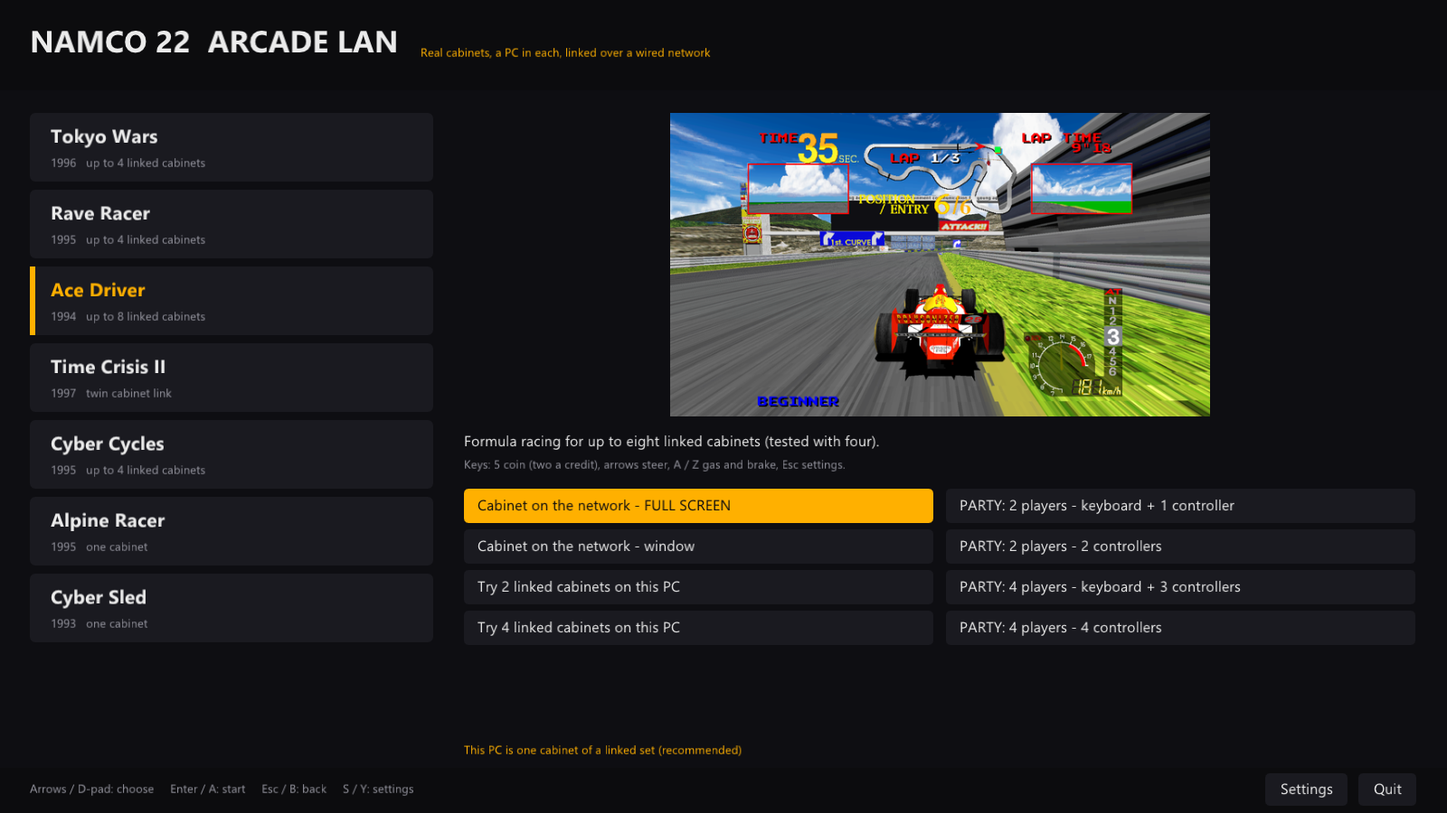
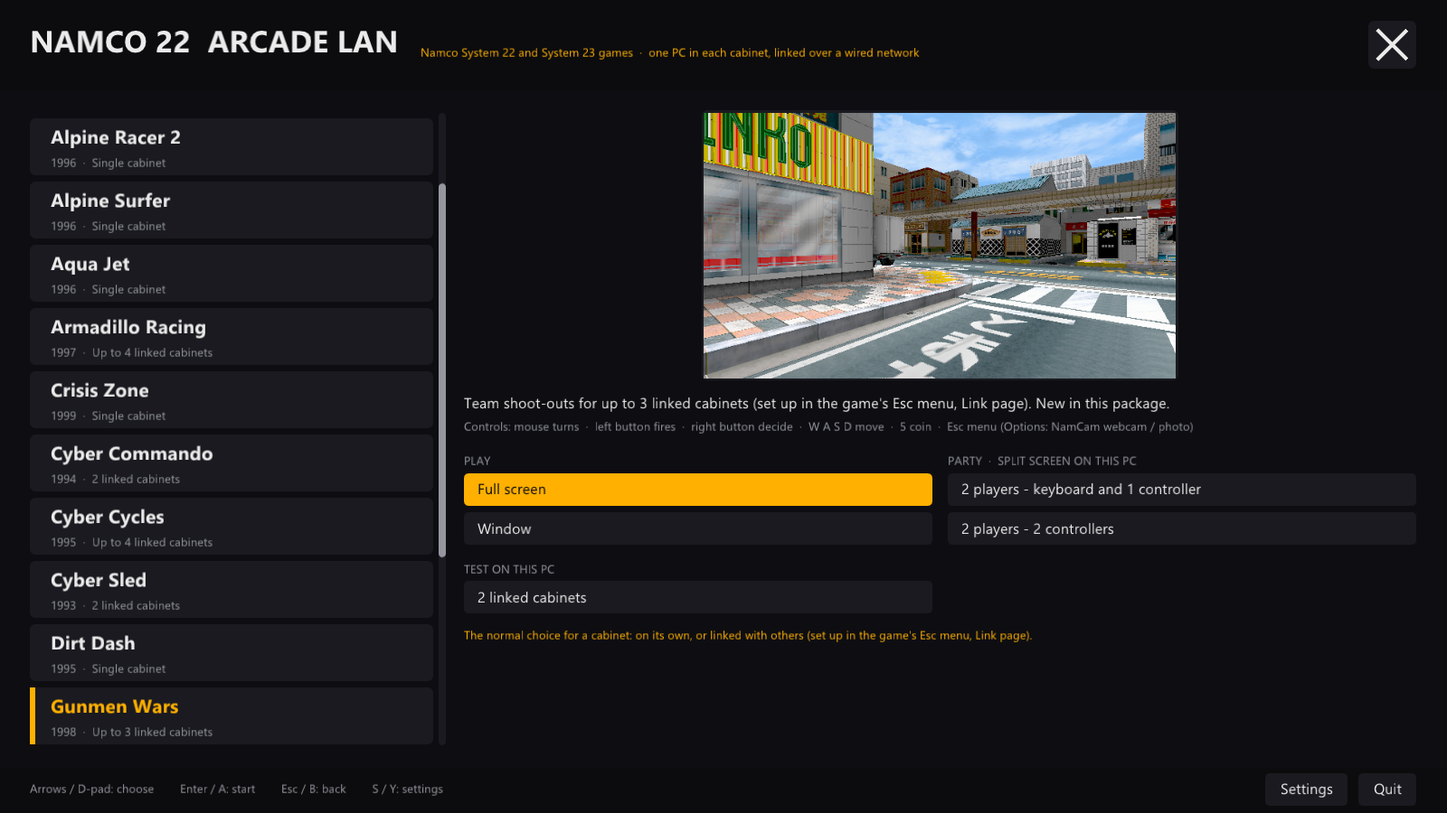
Party mode for the System 23 games (Gunmen Wars, Time Crisis II); launcher tidy; README for 0.9.3
- s23: $S23_PARTY with $S23_WINPOS=n/m -- borderless windows that fill the whole screen (side by side / 2 x 2), kept on
  top, a "PLAYER n: ..." line; $S23_PAD=none (the keyboard and mouse's copy); a party copy with a pad reads only its pad
  (keyboard, mouse and the mouse's aim belong to the other player). The links show the player line in place of "LINKED".
- Launcher: Gunmen Wars grouped as the other games (Full screen / Window, Test: 2 linked cabinets, Party: keyboard + 1
  controller or 2 controllers); Time Crisis II gains the two Party modes; the list's cabinet line from a table (Gunmen
  Wars: up to 3); the header says System 22 and System 23 games.
- TC2 (and Crisis Zone's build file): 256 MB main stack, as Gunmen Wars. TC2 rebuilt: attract pixel-identical to the
  old package exe.
- README: Gunmen Wars, party mode, 0.9.3 history, build and link notes, new launcher picture; package READ ME likewise.

diff --git a/launcher/src/launcher.c b/launcher/src/launcher.c
@@ -144,11 +144,18 @@ static const game_t games[] = {
     { "gunwars", "Gunmen Wars", "1998", "Gunmen Wars", "GunmenWars-ArcadeLAN.exe",
       "Team shoot-outs for up to 3 linked cabinets (set up in the game's Esc menu, Link page). New in this package.",
       "Controls: mouse turns  \xC2\xB7  left button fires  \xC2\xB7  right button decide  \xC2\xB7  W A S D move  \xC2\xB7  5 coin  \xC2\xB7  Esc menu (Options: NamCam webcam / photo)", NULL,
-      3, { { "Full screen", "The normal choice for a cabinet, linked or not (the game's Esc menu, Link page).", true, 1, { { "--window --fullscreen", NULL } } },
-           { "Window", "The same, in a window.", false, 1, { { "--window", NULL } } },
-           { "2 players on this PC (2 linked windows)", "Two linked windows side by side. Pad 1 plays the left window, pad 2 the right; keyboard and mouse play the window you click.", false, 2, {
+      5, { { "Full screen", "The normal choice for a cabinet: on its own, or linked with others (set up in the game's Esc menu, Link page).", true, 1,
+               { { "--window --fullscreen", NULL } } },
+           { "Window", "The same, in a window. Useful while setting up or testing.", false, 1, { { "--window", NULL } } },
+           { "Test: 2 linked cabinets on this PC", "Opens 2 linked windows side by side. Controller 1 plays the left, controller 2 the right; the keyboard and mouse play the window you click.", false, 2, {
                { "--window", "GW_LINK=1:2:23180;S23_CABINET_DIR=try-1;S23_WINPOS=1/2;S23_PAD=0" },
-               { "--window", "GW_LINK=2:2:23180;S23_CABINET_DIR=try-2;S23_WINPOS=2/2;S23_PAD=1;S23_MUTE=1" } } } } },
+               { "--window", "GW_LINK=2:2:23180;S23_CABINET_DIR=try-2;S23_WINPOS=2/2;S23_PAD=1;S23_MUTE=1" } } },
+           { "Party: 2 players - keyboard and 1 controller", "Split screen on this PC: player 1 on the keyboard and mouse (left), player 2 on a controller (right). Connect the controller first.", false, 2, {
+               { "--window", "GW_LINK=1:2:23180;S23_CABINET_DIR=try-1;S23_WINPOS=1/2;S23_PARTY=1;S23_PAD=none" },
+               { "--window", "GW_LINK=2:2:23180;S23_CABINET_DIR=try-2;S23_WINPOS=2/2;S23_PARTY=1;S23_PAD=0;S23_MUTE=1" } } },
+           { "Party: 2 players - 2 controllers", "Split screen on this PC, one controller each (controller 1 left, controller 2 right). Connect the controllers first.", false, 2, {
+               { "--window", "GW_LINK=1:2:23180;S23_CABINET_DIR=try-1;S23_WINPOS=1/2;S23_PARTY=1;S23_PAD=0" },
+               { "--window", "GW_LINK=2:2:23180;S23_CABINET_DIR=try-2;S23_WINPOS=2/2;S23_PARTY=1;S23_PAD=1;S23_MUTE=1" } } } } },
     { "propcycl", "Prop Cycle", "1996", "Prop Cycle", "PropCycle.exe",
       "Pedal-powered flying for a single cabinet. The original project's build.",
       "Keys: 5 coin  \xC2\xB7  Enter start  \xC2\xB7  arrows steer and lean  \xC2\xB7  Esc menu", NULL,
@@ -164,7 +171,7 @@ static const game_t games[] = {
     { "timecrs2", "Time Crisis II", "1997", "Time Crisis II", "TimeCrisis2-ArcadeLAN.exe",
       "The twin light-gun cabinet: the left and right sides link for 2 players.",
       "Controls: mouse or light gun aims and shoots  \xC2\xB7  the pedal takes cover  \xC2\xB7  Esc menu", "tc2_link.cfg",
-      6, {
+      8, {
         { "Left cabinet (red player) - full screen", "This PC is the left side of the twin cabinet. The normal choice for a cabinet.", true, 1,
             { { "--window --fullscreen", "TC2_SIDE=left" } } },
         { "Right cabinet (blue player) - full screen", "This PC is the right side of the twin cabinet. The normal choice for a cabinet.", true, 1,
@@ -176,7 +183,13 @@ static const game_t games[] = {
         { "Right cabinet (blue player) - window", "The right side, in a window.", false, 1, { { "--window", "TC2_SIDE=right" } } },
         { "Test: both sides on this PC", "Opens the left and right sides in 2 linked windows.", false, 2, {
             { "--window", "TC2_LINK=L:23011:127.0.0.1:23012;TC2_CABINET_DIR=try-left;TC2_WINPOS=left" },
-            { "--window", "TC2_LINK=R:23012:127.0.0.1:23011;TC2_CABINET_DIR=try-right;TC2_WINPOS=right" } } } } },
+            { "--window", "TC2_LINK=R:23012:127.0.0.1:23011;TC2_CABINET_DIR=try-right;TC2_WINPOS=right" } } },
+        { "Party: 2 players - keyboard and 1 controller", "Split screen on this PC: the red player on the mouse and keyboard (left), the blue player on a controller (right). Connect the controller first.", false, 2, {
+            { "--window", "TC2_LINK=L:23031:127.0.0.1:23032;TC2_CABINET_DIR=party-left;S23_WINPOS=1/2;S23_PARTY=1;S23_PAD=none" },
+            { "--window", "TC2_LINK=R:23032:127.0.0.1:23031;TC2_CABINET_DIR=party-right;S23_WINPOS=2/2;S23_PARTY=1;S23_PAD=0;S23_MUTE=1" } } },
+        { "Party: 2 players - 2 controllers", "Split screen on this PC, one controller each: controller 1 the red player (left), controller 2 the blue (right). Connect the controllers first.", false, 2, {
+            { "--window", "TC2_LINK=L:23031:127.0.0.1:23032;TC2_CABINET_DIR=party-left;S23_WINPOS=1/2;S23_PARTY=1;S23_PAD=0" },
+            { "--window", "TC2_LINK=R:23032:127.0.0.1:23031;TC2_CABINET_DIR=party-right;S23_WINPOS=2/2;S23_PARTY=1;S23_PAD=1;S23_MUTE=1" } } } } },
     { "tokyowar", "Tokyo Wars", "1996", "Tokyo Wars", "TokyoWars-ArcadeLAN.exe",
       "Team tank battles for up to 4 linked cabinets.",
       "Keys: 5 coin  \xC2\xB7  1 start  \xC2\xB7  arrows drive  \xC2\xB7  Ctrl fire  \xC2\xB7  Esc menu", "link.cfg",
@@ -194,6 +207,16 @@ static void logm(const char *fmt, ...)
     fprintf(log_file, "%04d-%02d-%02d %02d:%02d:%02d  ", t.wYear, t.wMonth, t.wDay, t.wHour, t.wMinute, t.wSecond);
     va_list a; va_start(a, fmt); vfprintf(log_file, fmt, a); va_end(a);
     fputc('\n', log_file); fflush(log_file);
+}
+/* the game list's second line: how many cabinets play together */
+static const char *cabinets_text(const game_t *g)
+{
+    static const struct { const char *id, *text; } t[] = {
+        { "acedrive", "Up to 8 linked cabinets" }, { "adillor", "Up to 4 linked cabinets" }, { "cybrcomm", "2 linked cabinets" },
+        { "cybrcycc", "Up to 4 linked cabinets" }, { "cybsled", "2 linked cabinets" }, { "gunwars", "Up to 3 linked cabinets" },
+        { "raverace", "Up to 4 linked cabinets" }, { "timecrs2", "Twin cabinet, 2 players" }, { "tokyowar", "Up to 4 linked cabinets" } };
+    for (size_t i = 0; i < sizeof t / sizeof *t; i++) if (!strcmp(g->id, t[i].id)) return t[i].text;
+    return "Single cabinet";
 }
 static void game_dir(const game_t *g, char *out, size_t n) { snprintf(out, n, "%sgames\\%s", base, g->folder); }
 static void game_exe(const game_t *g, char *out, size_t n) { snprintf(out, n, "%sgames\\%s\\%s", base, g->folder, g->exe); }
@@ -552,7 +575,7 @@ static void draw(int W, int H, SDL_Window *win)
     /* the title bar */
     nk_fill_rect(cb, nk_rect(0, 0, (float)W, 120 * k), 0, C_DARK);
     text(cb, f_title, pad, 26 * k, "NAMCO 22  ARCADE LAN", C_TEXT);
-    text(cb, f_small, pad + tw(f_title, "NAMCO 22  ARCADE LAN") + 30 * k, 58 * k, "One PC in each cabinet, linked over a wired network", C_AMBER);
+    text(cb, f_small, pad + tw(f_title, "NAMCO 22  ARCADE LAN") + 30 * k, 58 * k, "Namco System 22 and System 23 games  \xC2\xB7  one PC in each cabinet, linked over a wired network", C_AMBER);
     {   /* the X: closes the launcher (in a full-screen menu there is no window frame to close it with) */
         const float s = 64 * k; const struct nk_rect r = nk_rect(W - pad - s, 28 * k, s, s);
         const bool h = nk_input_is_mouse_hovering_rect(in, r);
@@ -599,7 +622,7 @@ static void draw(int W, int H, SDL_Window *win)
             nk_fill_rect(cb, r, 8 * k, s ? (focus == 0 ? C_SEL : C_PANEL) : C_PANEL);
             if (s) nk_fill_rect(cb, nk_rect(r.x, r.y, 8 * k, r.h), 0, C_AMBER);
             text(cb, f_big, r.x + 28 * k, r.y + 6 * k, games[i].name, s ? C_AMBER : C_TEXT);
-            char sub[64]; snprintf(sub, sizeof sub, "%s  \xC2\xB7  %s", games[i].year, games[i].cfg ? (!strcmp(games[i].id, "timecrs2") ? "Twin cabinet, 2 players" : !strcmp(games[i].id, "acedrive") ? "Up to 8 linked cabinets" : !strcmp(games[i].id, "cybrcomm") || !strcmp(games[i].id, "cybsled") ? "2 linked cabinets" : "Up to 4 linked cabinets") : "Single cabinet");
+            char sub[64]; snprintf(sub, sizeof sub, "%s  \xC2\xB7  %s", games[i].year, cabinets_text(&games[i]));
             text(cb, f_small, r.x + 28 * k, r.y + 46 * k, sub, C_DIM);
         }
         nk_push_scissor(cb, nk_rect(0, 0, (float)W, (float)H));

diff --git a/s23/src/s23_window.c b/s23/src/s23_window.c
@@ -46,7 +46,9 @@ static int gpu;                                                /* the GPU render
 static GLuint gpu_tex;
 static uint32_t pic[640 * 480];
 static int paused, shots;
-static int smooth_active;                                      /* motion smoothing: this game frame shows in-between frames */
+static char party_hint[96];                                    /* party (S23_PARTY): "PLAYER n: ..." for the first seconds */
+const char *s23_party_hint(void) { return party_hint; }        /* ("" when not a party; a game's link shows it in place of its "LINKED") */
+static int smooth_active;                                    /* motion smoothing: this game frame shows in-between frames */
 static const s23_built *smooth_pic[3]; static double smooth_at[3]; static int smooth_np;   /* the frame's pictures and where each belongs (0..1] */
 static const s23_built *smooth_shown;
 static const char *smooth_tag;                                 /* ENG_SWAPLOG: which picture the next swap shows */
@@ -155,13 +157,29 @@ int s23_window_open(int scale, int fullscreen)
                                                     * a window being dragged stops its game, and the other cabinet loses it) -- the two windows
                                                     * side by side, edge to edge, in the middle of the screen (eng/eng_tile.h) */
       int wi = 0, wn = 0;                          /* or N/M: window N of M in a grid (several linked copies, e.g. Gunmen Wars' 4) */
-      if (wp && !g_eng_disp.winmode) { if (sscanf(wp, "%d/%d", &wi, &wn) == 2 && wi >= 1 && wi <= wn) eng_tile_window(win, wi - 1, wn);
+      int s23_party(void), s23_party_pad(void);
+      if (wp && s23_party() && sscanf(wp, "%d/%d", &wi, &wn) == 2 && wi >= 1 && wi <= wn) {
+          /* PARTY (the launcher's split screen, as the other games' --party): no frames, the copies together fill the WHOLE screen (over the
+           * task bar, kept on top) -- side by side for 2, a 2 x 2 grid for 3-4; each picture keeps its shape inside its part */
+          SDL_Rect b; const int di = SDL_GetWindowDisplayIndex(win);
+          if (SDL_GetDisplayBounds(di, &b) == 0) {
+              const int pc = wn <= 1 ? 1 : 2, pr = (wn + pc - 1) / pc, tw = b.w / pc, th = b.h / pr;
+              SDL_SetWindowBordered(win, SDL_FALSE); SDL_SetWindowAlwaysOnTop(win, SDL_TRUE);
+              SDL_SetWindowSize(win, tw, th); SDL_SetWindowPosition(win, b.x + ((wi - 1) % pc) * tw, b.y + ((wi - 1) / pc) * th);
+              fprintf(stderr, "[HOST] party: player %d of %d, %d x %d\n", wi, wn, tw, th);
+          }
+          { const int pd = s23_party_pad();   /* (shown once the menu is up, below) */
+            if (pd >= 0) snprintf(party_hint, sizeof party_hint, "PLAYER %d: CONTROLLER %d", wi, pd + 1);
+            else snprintf(party_hint, sizeof party_hint, "PLAYER %d: KEYBOARD AND MOUSE (CLICK HERE FIRST)", wi); }
+          if (s23_party_pad() < 0) SDL_RaiseWindow(win);   /* the keyboard's copy in front, so the keys reach it */
+      } else if (wp && !g_eng_disp.winmode) { if (sscanf(wp, "%d/%d", &wi, &wn) == 2 && wi >= 1 && wi <= wn) eng_tile_window(win, wi - 1, wn);
                                        else eng_tile_window(win, wp[0] == 'r' || wp[0] == 'R', 2); } }
     eng_vsync_init(&vs, win, getenv("S23_VSYNC"));
     s23_smooth_set(eng_cfg_int("motion_smooth", 0));
     eng_pace_reset(&pace);
     fprintf(stderr, "[HOST] OpenGL: %s; display %d Hz, %s\n", (const char *)glGetString(GL_RENDERER), vs.hz, eng_vsync_mode(&vs));
     if (!eng_ui_init(win, s23_game.window_title)) fprintf(stderr, "[HOST] no menu\n");
+    if (party_hint[0]) { void eng_ui_set_hint(const char *, int); eng_ui_set_hint(party_hint, 60 * 15); }   /* party: whose picture this is */
     ss22_input_init(s23_game.input ? (const ss22_input_game *)s23_game.input : &s23_input_game);                    /* the controls (keys, mouse, light gun, pads) and the menu's Controls page */
     eng_ui_add_page(ss22_input_page());
     if (s23_game.menu_pages) s23_game.menu_pages();

diff --git a/s23/src/eng/ss22_input.c b/s23/src/eng/ss22_input.c
@@ -241,7 +241,8 @@ static void pad_scan(void)
 
     /* $S23_PAD=n (our fork: two linked windows on one PC, the launcher's test modes): this copy uses only the n-th gamepad (0 = the first),
      * so each window has its own player */
-    static int only = -2; if (only == -2) { const char *e = getenv("S23_PAD"); only = e && *e ? atoi(e) : -1; }
+    int s23_pad_choice(void); const int only = s23_pad_choice();
+    if (only == -3) return;                                        /* S23_PAD=none: the keyboard and mouse's copy, no pad */
     for (int j = 0, n = SDL_NumJoysticks(), gi = -1; j < n; j++) {
         if (!SDL_IsGameController(j)) continue;
         gi++;
@@ -769,9 +770,10 @@ static uint32_t mouse_state(int *x, int *y)
 static void aim_update(const uint8_t *k)
 {
     static int last_mx = -1, last_my = -1;
-    int mx, my; const uint32_t mb_now = mouse_state(&mx, &my);
+    int s23_pads_only(void); const bool pads_only = s23_pads_only();   /* (a party's pad player: the mouse is the other player's) */
+    int mx = 0, my = 0; const uint32_t mb_now = pads_only ? 0 : mouse_state(&mx, &my);
     float px, py; bool inside;
-    const bool have = ss22_host_pointer(&px, &py, &inside);
+    const bool have = !pads_only && ss22_host_pointer(&px, &py, &inside);
     if (have && (mx != last_mx || my != last_my)) { aim_src = 1; last_mx = mx; last_my = my; }
     float dx = 0, dy = 0;                               /* the stick and the arrow keys move the crosshair (a full deflection crosses the picture in ~1 s) */
     for (int i = 0; i < MAX_DEV; i++) {
@@ -812,12 +814,25 @@ static void aim_update(const uint8_t *k)
 static uint16_t swallow;                 /* buttons held since the menu closed: masked until released */
 static bool swallow_arm;
 
+/* $S23_PAD: -1 every pad (not set), n >= 0 the n-th pad only, -3 none ("none": the keyboard and mouse's copy) */
+int s23_pad_choice(void)
+{
+    static int only = -2;
+    if (only == -2) { const char *e = getenv("S23_PAD"); only = !e || !*e ? -1 : (*e == 'n' || *e == 'N') ? -3 : atoi(e); }
+    return only;
+}
+/* PARTY ($S23_PARTY, the launcher's split screen): a copy with a pad reads ONLY its pad -- the keyboard and mouse belong to the copy
+ * without one, even if a pad player's window is clicked */
+int s23_party(void) { static int p = -1; if (p < 0) { const char *e = getenv("S23_PARTY"); p = e && *e && *e != '0'; } return p; }
+int s23_party_pad(void) { const int c = s23_pad_choice(); return c >= 0 ? c : -1; }
+int s23_pads_only(void) { return s23_party() && s23_pad_choice() >= 0; }
 void ss22_input_update(void)
 {
-    const uint8_t *k = SDL_GetKeyboardState(NULL);
+    static const uint8_t no_keys[SDL_NUM_SCANCODES];
+    const uint8_t *k = s23_pads_only() ? no_keys : SDL_GetKeyboardState(NULL);
     uint16_t p = 0;
     int left = 0, right = 0, pk[2] = { 0, 0 };
-    const uint32_t mb = game->light_gun ? mouse_state(NULL, NULL) : 0;
+    const uint32_t mb = game->light_gun && !s23_pads_only() ? mouse_state(NULL, NULL) : 0;
     if (game->light_gun) aim_update(k);
 
     for (int a = 0; a < game->n; a++) {

diff --git a/gunwars/src/gw_game.c b/gunwars/src/gw_game.c
@@ -139,8 +139,8 @@ static int pad_axis(SDL_GameControllerAxis ax)
 {
     if (!pad || !SDL_GameControllerGetAttached(pad)) {
         pad = NULL;
-        static int only = -2; if (only == -2) { const char *e = getenv("S23_PAD"); only = e && *e ? atoi(e) : -1; }   /* (one pad a window: $S23_PAD) */
-        for (int i = 0, gi = -1; i < SDL_NumJoysticks() && !pad; i++) if (SDL_IsGameController(i) && (++gi == only || only < 0)) pad = SDL_GameControllerOpen(i);
+        int s23_pad_choice(void); const int only = s23_pad_choice();   /* (one pad a window: $S23_PAD; "none" = the keyboard's copy) */
+        for (int i = 0, gi = -1; only != -3 && i < SDL_NumJoysticks() && !pad; i++) if (SDL_IsGameController(i) && (++gi == only || only < 0)) pad = SDL_GameControllerOpen(i);
         if (!pad) return 0;
     }
     const int v = SDL_GameControllerGetAxis(pad, ax);
@@ -194,7 +194,8 @@ static int gw_fps_layout(void) { int eng_cfg_int(const char *, int); if (fps_lay
 void gw_mouse_capture(void)
 {
     _Bool eng_ui_is_open(void); SDL_Window *w = SDL_GetKeyboardFocus();
-    const int want = w && gw_fps_layout() && !eng_ui_is_open();
+    int s23_pads_only(void);
+    const int want = w && gw_fps_layout() && !eng_ui_is_open() && !s23_pads_only();   /* (a party's pad player never takes the mouse) */
     if ((SDL_GetRelativeMouseMode() == SDL_TRUE) != want) SDL_SetRelativeMouseMode(want ? SDL_TRUE : SDL_FALSE);
 }
 static uint16_t gw_analog(int ch)
@@ -230,7 +231,7 @@ static uint16_t gw_analog(int ch)
             extern uint32_t rr_frame; static uint32_t lastf; static double sw;
             if (rr_frame != lastf) {
                 lastf = rr_frame;
-                int dx = 0, dy; SDL_GetRelativeMouseState(&dx, &dy);
+                int dx = 0, dy; SDL_GetRelativeMouseState(&dx, &dy); { int s23_pads_only(void); if (s23_pads_only()) dx = 0; }
                 void gw_mouse_capture(void); gw_mouse_capture();
                 const int rx = pad_axis(SDL_CONTROLLER_AXIS_RIGHTX);
                 /* the mouse's speed, smoothed over a few frames (the user: "a bit twitchy"); a slow movement only nudges the aim (below the

diff --git a/gunwars/src/gw_link.c b/gunwars/src/gw_link.c
@@ -515,7 +515,9 @@ static void gate(int (*pump)(const char *, const char *))
         if (k == 'S') { go_alone("S WAS PRESSED"); break; }
     }
     void eng_ui_set_hint(const char *, int);
-    if (pump && state == ST_LINKED) { static char h[96]; snprintf(h, sizeof h, "LINKED: CABINET %d OF %d", me + 1, ncab); eng_ui_set_hint(h, 60 * 6); }
+    if (pump && state == ST_LINKED) { static char h[96]; const char *s23_party_hint(void); const char *ph = s23_party_hint();
+        if (ph[0]) eng_ui_set_hint(ph, 60 * 15);                       /* a party: whose picture this is (src/s23_window.c) */
+        else { snprintf(h, sizeof h, "LINKED: CABINET %d OF %d", me + 1, ncab); eng_ui_set_hint(h, 60 * 6); } }
     if (pump && state == ST_ALONE) { static char h[128]; snprintf(h, sizeof h, "NOT LINKED: %s", why_alone); eng_ui_set_hint(h, 60 * 8); }
 }
 static void tick(void)

diff --git a/s23/src/s23_c422.c b/s23/src/s23_c422.c
@@ -463,7 +463,9 @@ void s23_c422_gate(int (*pump)(const char *l1, const char *l2))
         if (k == 'S') { go_alone("S WAS PRESSED"); break; }
     }
     void eng_ui_set_hint(const char *, int);
-    if (pump && state == ST_LINKED) eng_ui_set_hint(side_right ? "LINKED WITH THE LEFT (RED) CABINET" : "LINKED WITH THE RIGHT (BLUE) CABINET", 60 * 6);
+    if (pump && state == ST_LINKED) { const char *s23_party_hint(void); const char *ph = s23_party_hint();   /* (a party: whose picture this is) */
+        if (ph[0]) eng_ui_set_hint(ph, 60 * 15);
+        else eng_ui_set_hint(side_right ? "LINKED WITH THE LEFT (RED) CABINET" : "LINKED WITH THE RIGHT (BLUE) CABINET", 60 * 6); }
     if (pump && state == ST_ALONE) { static char h[128]; snprintf(h, sizeof h, "NOT LINKED: %s", why_alone); eng_ui_set_hint(h, 60 * 8); }
 }
 

diff --git a/README.md b/README.md
@@ -43,7 +43,8 @@ the arcade has and keeping them running.
 | **Tokyo Wars** | 1996 | up to 4, linked | Team tank battles |
 | **Rave Racer** | 1995 | up to 4, linked | Linked races |
 | **Ace Driver** | 1994 | up to 8, linked (tested with 8 on one PC) | Linked races; **new link** in this fork (the original project's build plays solo) |
-| **Time Crisis II** | 1997 | 2, the twin cabinet | The left and right sides linked for two players |
+| **Time Crisis II** | 1997 | 2, the twin cabinet | The left and right sides linked for two players; **party mode** (split screen on one PC) |
+| **Gunmen Wars** | 1998 | up to 3, linked | **New**: a port made for this fork (System 23 with its GMEN camera and link board): team shoot-outs, the NamCam photo from a webcam or a picture, party mode |
 | **Cyber Cycles** | 1995 | up to 4, linked | **New**: a port made for this fork, not in the original project |
 | **Cyber Commando** | 1994 | 2, linked | Robot battles, cabinet against cabinet; **new link** in this fork (the original project's build plays solo) |
 | **Armadillo Racing** | 1997 | up to 4, linked | Trackball racing; **new link** in this fork (the original project's build plays solo) |
@@ -83,7 +84,8 @@ play it with the keyboard, a controller or the mouse:
 
 - **Linked cabinet** (full screen or in a window), **Time Crisis II's left or right cabinet**, both sides on one PC,
   **Test** modes that run 2, 4 or 8 linked copies on one PC, and **Party** modes (2 or 4 players on one PC, split
-  screen, a controller each).
+  screen, a controller each; Gunmen Wars and Time Crisis II: 2 players, the keyboard and mouse for one of them).
+- System 22 and System 23 games side by side: Gunmen Wars and Time Crisis II run on the fork's System 23 engine (`s23/`).
 - **Start a game when Windows starts**: the launcher counts down (a key or button opens the menu instead) and starts the
   chosen game. **If the game ever closes, it starts it again**, so the cabinet always comes back to its attract mode.
 - **Settings for every game at once**: the link status lights, and the session recordings (each game keeps the last session's
@@ -152,6 +154,11 @@ in its Esc menu edits them. The launcher's are in `launcher.cfg` beside it.
 
 ## Version history
 
+- **0.9.3** (November 2026): **Gunmen Wars** (System 23 + GMEN), new: linked up to 3 cabinets over the GMEN boards' FireWire
+  bus model, a Network setting for slower networks, the NamCam photo from a webcam or a picture, widescreen with the HUD at
+  the edges, mouse-look controls, F9 captures (a picture and the game's state, to replay a problem), party mode. The System 23
+  engine moved to its own folder (`s23/`), shared by Gunmen Wars and Time Crisis II; Time Crisis II gains party mode.
+
 - **0.9.2** (October 2026): merged the original 0.9.1 and 0.9.2 (16:9 widescreen, Rave Racer session recordings, a
   geometry fix). New games: Cyber Cycles (linked, up to 4) and Alpine Racer; Ace Driver links (up to 8). The launcher, with the automatic start
   and the restart watchdog; the package with a folder per game; the session recording switch.
@@ -166,6 +173,9 @@ in its Esc menu edits them. The launcher's are in `launcher.cfg` beside it.
 - Rare: when a cabinet is switched off without warning, the others may show a link blip of about a third of a second
   before carrying on.
 - Not yet tested with real controllers in party mode, or in a full arcade installation.
+- Gunmen Wars: four linked cabinets are experimental (one cabinet can stall at team select); the namco logo's change to red is
+  matched to arcade footage (the hardware rule is not known); in widescreen the attract demo shows in 4:3 (its scenery only
+  exists as far as the original screen shows).
 
 ## Building
 
@@ -175,12 +185,13 @@ its sound and DSP programs are translated from them at build time (see the origi
 
 ```
 cmake -S tokyowar -B tokyowar/build -G Ninja -DCMAKE_BUILD_TYPE=RelWithDebInfo -DZLIB_LIBRARY=/mingw64/lib/libz.a
-ninja -C tokyowar/build          # the same for raverace, tc2, cybrcycc, alpiner and cybsled (cs21, -j1)
+ninja -C tokyowar/build          # the same for raverace, tc2, gunwars, cybrcycc, alpiner and cybsled (cs21, -j1)
 cmake -S launcher -B launcher/build -G Ninja && ninja -C launcher/build
 ```
 
 Cyber Cycles and Alpine Racer are translated from the game's own program with Ghidra and this fork's 68020 translator
-(`tools/gen/lift68k.py`, `tools/gen/ghidra/`); their `tools/import.sh` / `regen.sh` need `N22TOOLS` set to the folder
+(`tools/gen/lift68k.py`, `tools/gen/ghidra/`); Gunmen Wars with its MIPS translator (`tools/gen/liftmips.py`,
+`gunwars/tools/regen.sh`); their `tools/import.sh` / `regen.sh` need `N22TOOLS` set to the folder
 with Ghidra and a JDK. The link tests run four copies on one PC over 127.0.0.1, with network faults injected:
 `tokyowar/tools/link_tests.sh` and `raverace/tools/link_tests.sh` (`gather`, `missing`, `bad`, `skew`, `crash`).
 
@@ -191,7 +202,9 @@ Each original board has a link chip (Namco's C139; the C422 on System 23) joined
 it: a frame the game sends goes to the next cabinet as one UDP packet (`engine/link_net.c`), and a frame received is
 put in the chip's buffer and the game is interrupted, as on the board. `engine/link_host.c` handles start-up (finding the
 others, the power-on wait, the fixed set), the Network page, `link.cfg` and the safety net. Notes on each game's link
-protocol are in [docs/LINK_NOTES.md](docs/LINK_NOTES.md). The original author's own online play (`engine/net.c` and
+protocol are in [docs/LINK_NOTES.md](docs/LINK_NOTES.md). Gunmen Wars links differently: its cabinets talk through the GMEN
+board's IEEE 1394 (FireWire) chip, modelled in `gunwars/src/gw_gmen.c` and carried over UDP in lockstep on game time
+(`gunwars/src/gw_link.c`, [gunwars/LINK.md](gunwars/LINK.md)); its settings are the `link` lines of `gunwars.cfg`. The original author's own online play (`engine/net.c` and
 friends) is kept as it is, hidden by *Arcade mode*, so their releases keep merging cleanly.
 
 ## Licence and legal
@@ -200,7 +213,7 @@ MIT License; see `LICENSE`. Copyright of the original project is its author's; t
 licence.
 
 This project is not affiliated with or endorsed by Bandai Namco. Tokyo Wars, Rave Racer, Ace Driver, Time Crisis, Cyber Cycles,
-Alpine Racer and Cyber Sled are trademarks of Bandai Namco Entertainment Inc. You need your own legally obtained copy of
+Alpine Racer, Cyber Sled and Gunmen Wars are trademarks of Bandai Namco Entertainment Inc. You need your own legally obtained copy of
 each game.
 
 ## Credits
